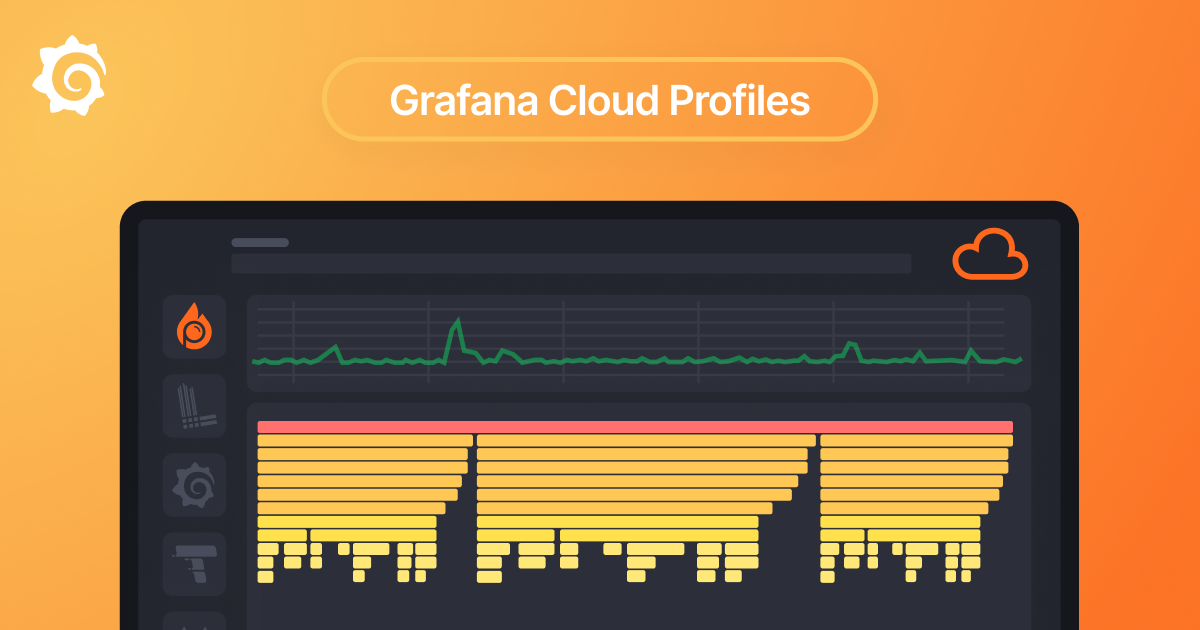
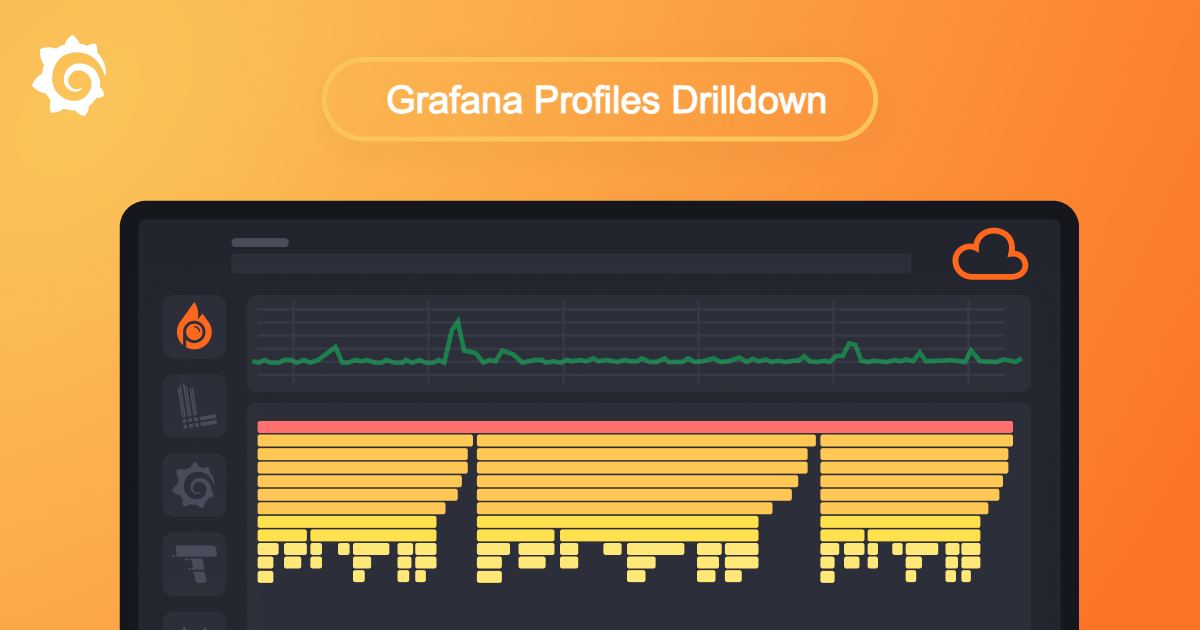
Change Hero image

Changed region(s): [[0.3083, 0.1206, 0.7092, 0.181]]

diff --git a/src/app/components/Onboarding/ui/OnboardingModal.tsx b/src/app/components/Onboarding/ui/OnboardingModal.tsx
@@ -2,7 +2,6 @@ import { css, cx } from '@emotion/css';
 import { GrafanaTheme2 } from '@grafana/data';
 import { useStyles2 } from '@grafana/ui';
 import DecreaseLatency from '@img/decrease-latency.png';
-import HeroImageExploreProfiles from '@img/hero-image-explore-profiles.png';
 import HeroImage from '@img/hero-image.png';
 import ReduceCosts from '@img/reduce-costs.png';
 import ResolveIncidents from '@img/resolve-incidents.png';
@@ -116,7 +115,7 @@ export function OnboardingModal() {
           </h2>
           {/* <Button>Continue to Pyroscope</Button> */}
         </div>
-        <img src={data.isCloud ? HeroImage : HeroImageExploreProfiles} className={styles.heroImage}></img>
+        <img src={HeroImage} className={styles.heroImage}></img>
       </div>
 
       <div data-testid="what-you-can-do">
